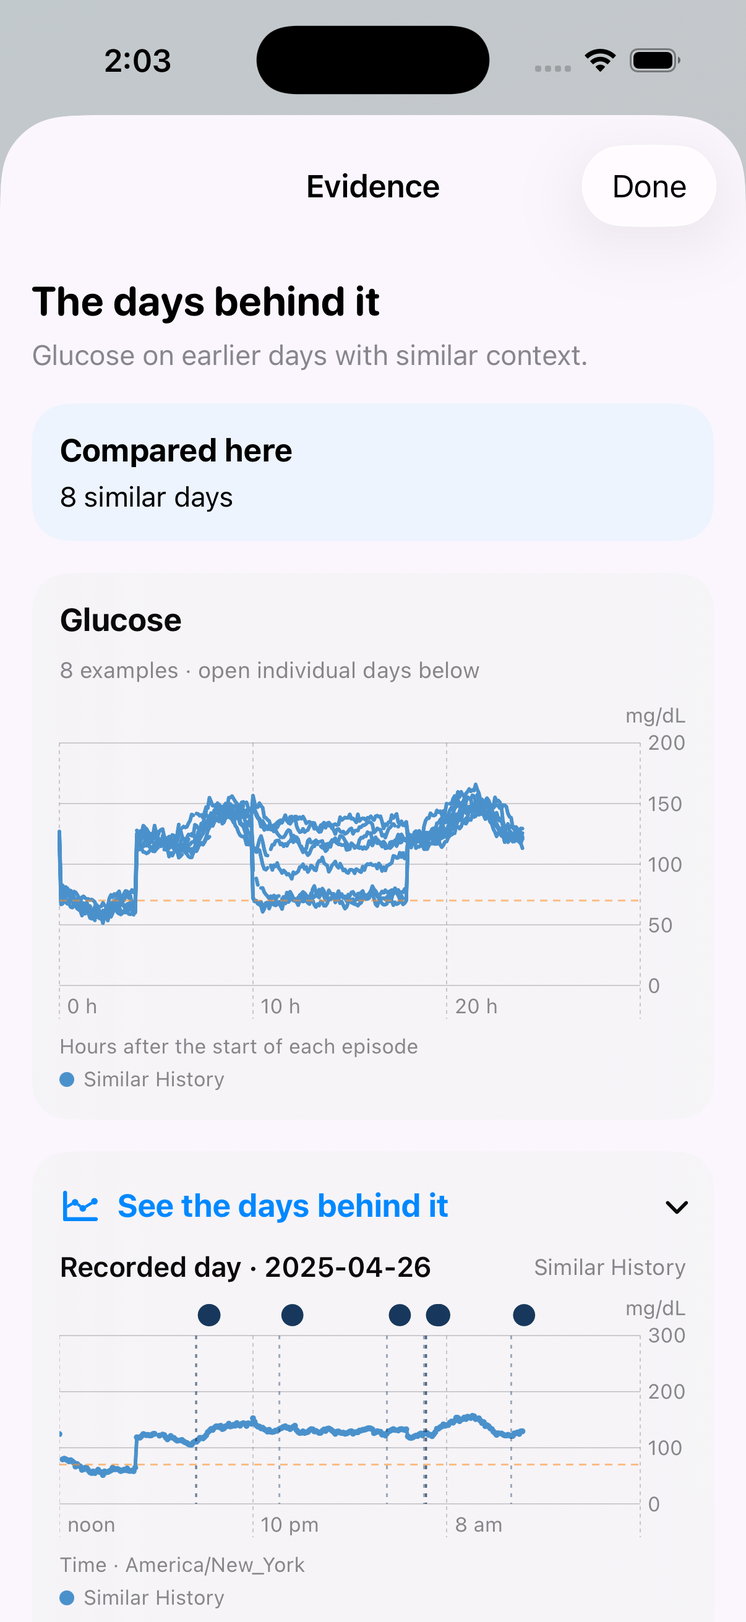
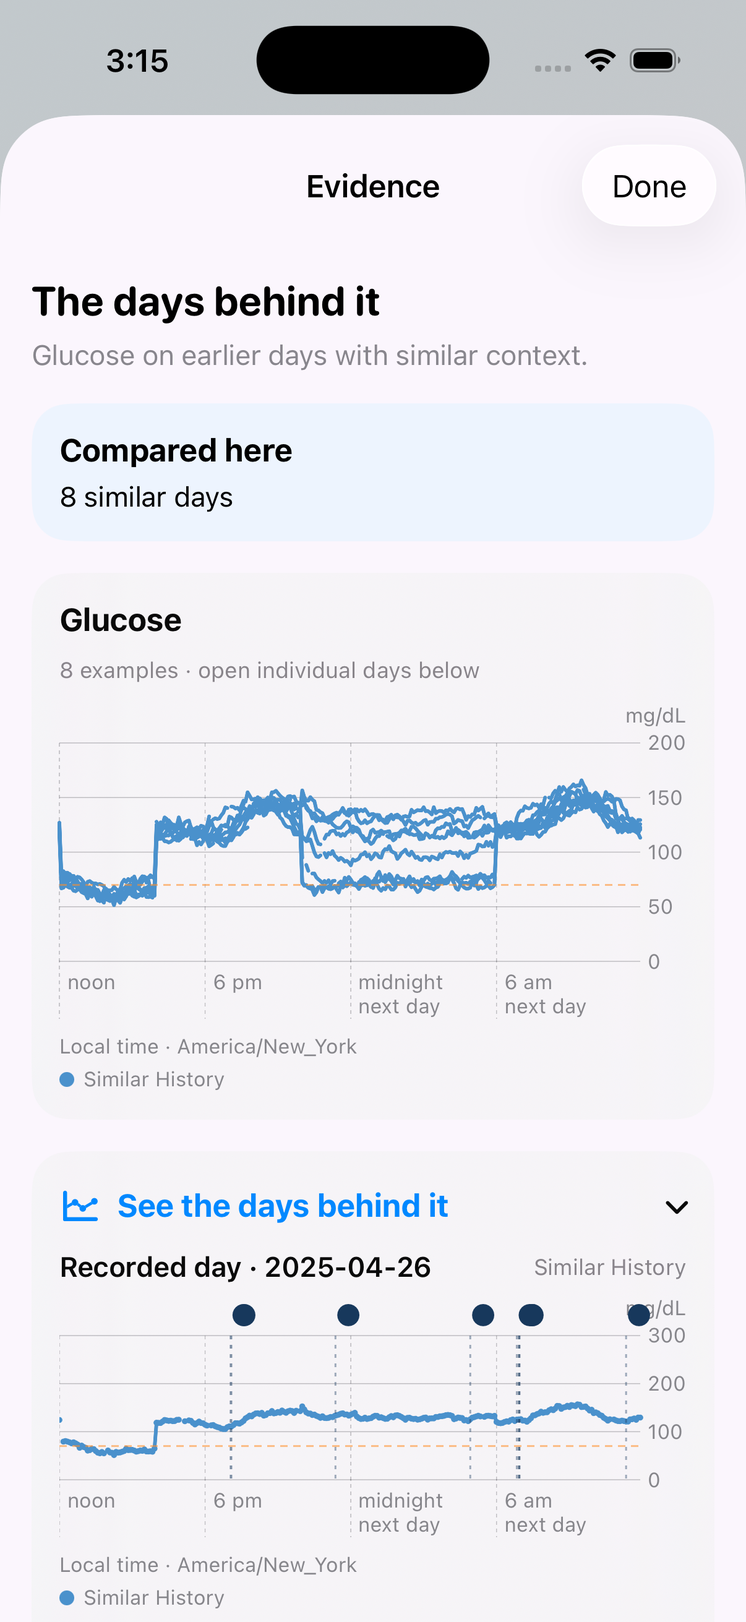
Improve twin presentation and show evidence in local clock time

diff --git a/demo/index.html b/demo/index.html
@@ -5,11 +5,14 @@
 <title>InSite — Digital twin</title>
 <style>
 :root{--ink:#193c51;--muted:#5c7280;--line:#dce6eb;--blue:#276789;--teal:#22786d;--pink:#b47c8d}*{box-sizing:border-box}body{margin:0;background:#f6f9fb;color:var(--ink);font:15px/1.5 -apple-system,BlinkMacSystemFont,"Segoe UI",sans-serif}button,input,select{font:inherit}button,select{cursor:pointer}a{color:var(--blue)}main{max-width:1320px;margin:auto;padding:24px 36px 60px}nav{display:flex;align-items:center;gap:26px;border-bottom:1px solid var(--line);padding-bottom:20px}nav strong{font-size:20px;letter-spacing:.08em;margin-right:auto}nav a{text-decoration:none;font-size:14px}header{padding:32px 0 24px}h1{font-size:34px;letter-spacing:-.025em;line-height:1.15;margin:0 0 12px}h2{font-size:19px;margin:0 0 12px}h3{font-size:15px;margin:0 0 12px}p{color:var(--muted);margin:8px 0}header p{max-width:780px;font-size:16px}.tag{display:inline-block;font-size:12px;color:var(--teal);background:#e7f2ee;border:1px solid #d4e5df;padding:4px 10px;border-radius:20px}.layout{display:grid;grid-template-columns:310px minmax(0,1fr);gap:22px;align-items:start}.panel{background:white;border:1px solid var(--line);border-radius:16px;padding:23px}.control-tabs{display:flex;gap:4px;background:#edf2f5;border-radius:9px;padding:4px;margin:20px 0}.control-tabs button{flex:1;border:0;border-radius:6px;padding:8px 4px;color:var(--muted);background:none;font-size:13px}.control-tabs button[aria-selected=true]{background:white;color:var(--ink);box-shadow:0 1px 4px #183a5010}.control-group[hidden]{display:none}label{display:block;font-size:13px;font-weight:600;margin:18px 0 8px}select{width:100%;padding:10px;border:1px solid #cfdce3;background:#fff;border-radius:8px;color:var(--ink)}input[type=range]{width:100%;accent-color:var(--blue);margin:5px 0}output{float:right;color:var(--blue);font-weight:600}small{font-size:12px;color:var(--muted);display:block;margin-top:5px}.patient-info{font-size:12px;line-height:1.6;margin-top:10px}.buttons{display:flex;gap:8px;margin-top:22px}.buttons button{border:1px solid var(--line);border-radius:9px;padding:11px 12px;background:white;color:var(--ink)}.buttons .primary{flex:1;background:var(--blue);border-color:var(--blue);color:#fff;font-weight:600}button:disabled{opacity:.55;cursor:wait}.chart-header{display:flex;align-items:flex-start;justify-content:space-between;gap:12px}.legend{display:flex;gap:18px;font-size:12px;margin:15px 0 8px}.legend span::before{content:"";display:inline-block;width:18px;height:3px;margin:0 7px 3px 0;background:var(--blue)}.legend .reference::before{background:var(--pink)}.legend .observed::before{background:#667782}.legend .uncalibrated::before{background:#b8a98b}svg{display:block;width:100%;height:auto}.metrics{display:grid;grid-template-columns:repeat(4,1fr);gap:12px;margin:18px 0}.metric{border-top:1px solid var(--line);padding-top:14px}.metric b{font-size:24px;display:block;letter-spacing:-.02em}.metric span{display:block;font-size:12px;color:var(--muted)}.status{color:var(--muted);font-size:13px;min-height:22px;margin-top:14px}.status[data-error=true]{color:#a33939}.subtle{background:#f5f8fa;border-radius:10px;padding:14px;font-size:13px}.subtle strong{display:block;margin-bottom:4px}details{border-top:1px solid var(--line);margin-top:20px;padding-top:15px}summary{font-size:13px;font-weight:600;cursor:pointer}table{width:100%;border-collapse:collapse;font-size:12px;margin-top:12px}td,th{padding:9px 8px;border-bottom:1px solid #e9eef1;text-align:left;vertical-align:top}th{font-weight:600;color:var(--muted)}.section{margin-top:28px}.section>p{max-width:800px}.calibration{margin-top:16px}.method-grid{display:grid;grid-template-columns:repeat(3,1fr);gap:18px;margin-top:16px}.method-grid article{border-top:2px solid #a6c8d9;padding:15px 0}.method-grid p{font-size:13px}code{font-size:12px;overflow-wrap:anywhere}.footnote{font-size:12px;margin-top:20px;max-width:900px}#calibrationMetrics{max-width:550px;grid-template-columns:repeat(2,1fr)}@media(max-width:1000px){main{padding:22px}.layout{grid-template-columns:280px minmax(0,1fr)}.panel{padding:18px}.metrics{grid-template-columns:repeat(2,1fr)}}@media(max-width:740px){main{padding:20px 16px}.layout,.method-grid{grid-template-columns:1fr}h1{font-size:28px}header{padding-top:24px}.control-tabs{max-width:420px}nav{gap:18px}}
+
+.example-scenarios{display:flex;gap:9px;flex-wrap:wrap;margin:20px 0 25px}.example-scenarios button{border:1px solid #c6dce6;border-radius:30px;padding:10px 16px;color:var(--blue);background:white;font-size:13px}.example-scenarios button:hover{background:#e9f2f7}.section-heading{display:flex;justify-content:space-between;align-items:start;gap:20px}.eyebrow{font-size:11px;letter-spacing:.12em;text-transform:uppercase;font-weight:700;color:var(--teal);margin-bottom:9px}.result-summary{margin:16px 0;background:#edf5f8;border-left:3px solid #70a5bf;border-radius:0 10px 10px 0;padding:15px 18px;font-size:16px;line-height:1.6}.study-grid{display:grid;grid-template-columns:1fr 1fr;gap:24px;margin:24px 0}.study-grid article{padding:22px;border:1px solid var(--line);border-radius:14px;background:#fbfcfd}.study-grid h3{font-size:18px}.study-stat{font-size:35px;letter-spacing:-.03em;font-weight:650;color:var(--blue);line-height:1.3}.study-stat small{font-size:12px;font-weight:400;letter-spacing:0}.study-grid p{font-size:13px}.study-method{display:grid;grid-template-columns:repeat(4,1fr);gap:12px;margin:20px 0}.study-method div{border-top:2px solid #bad4df;padding-top:12px;font-size:13px}.study-method b{display:block;margin-bottom:6px}.split-timeline{display:grid;grid-template-columns:repeat(6,1fr);gap:5px;margin:22px 0}.split-timeline div{padding:13px 8px;background:#e7f0f4;border-radius:7px;text-align:center;font-size:12px}.split-timeline .holdout{background:#e9e2ec;color:#704962}.split-timeline .initial{background:#edf0f2;color:var(--muted)}.benchmark-image{width:100%;height:auto;border:1px solid var(--line);border-radius:12px;margin:18px 0}.method-note{font-size:13px;max-width:950px}.benchmark-table{font-size:13px}.benchmark-table td{padding:12px 10px}.benchmark-table tr:last-child td{border-bottom:0}#validation{scroll-margin-top:20px;padding:30px}#calibration{padding:30px}@media(max-width:740px){.study-grid{grid-template-columns:1fr}.study-method{grid-template-columns:1fr 1fr}.split-timeline{grid-template-columns:repeat(3,1fr)}#validation,#calibration{padding:20px}.section-heading{display:block}}
 </style>
 </head>
 <body><main>
-<nav aria-label="Page sections"><strong>INSITE</strong><a href="#explore">Simulation</a><a href="#calibration">Calibration</a><a href="#model">Model</a></nav>
+<nav aria-label="Page sections"><strong>INSITE</strong><a href="#explore">Simulation</a><a href="#validation">Validation</a><a href="#calibration">Fitting</a><a href="#model">Model</a></nav>
 <header id="explore"><h1>Explore the digital twin</h1><p>Change sleep, activity, cycle context, or physiology and compare the simulated glucose response. This demo runs the same physiological and context model used by the twin fitter.</p><span class="tag">Synthetic research demo</span></header>
+<div class="example-scenarios" aria-label="Example scenarios"><button type="button" data-preset="sleep">Try a shorter night</button><button type="button" data-preset="activity">Try evening activity</button><button type="button" data-preset="site">Change site age</button></div>
 <div class="layout">
 <form id="controls" class="panel"><h2>Simulation inputs</h2>
 <label for="subject">Base physiology</label><select id="subject"><option value="adult#001">Virtual adult 001 · 102.3 kg</option><option value="adult#006">Virtual adult 006 · 66.1 kg</option></select><p id="patientInfo" class="patient-info">Each profile has its own glucose production, insulin response, and absorption parameters.</p>
@@ -37,13 +40,18 @@
 <div class="buttons"><button id="run" class="primary" type="submit">Run comparison</button><button type="button" id="reset">Reset</button></div><small>Reference: 8.5 hours of sleep, no exercise, unspecified cycle, day-one site, and neutral stress.</small>
 </form>
 <div>
-<section class="panel"><div class="chart-header"><div><h2>Glucose over 24 hours</h2><p class="patient-info">Daily inputs repeat during a preceding day of simulation.</p></div><span class="tag">mg/dL</span></div><div class="legend"><span class="reference">Reference</span><span>Your scenario</span></div><svg id="chart" viewBox="0 0 760 360" role="img" aria-label="Reference and scenario glucose curves over 24 hours"></svg><div id="metrics" class="metrics"></div><div id="status" class="status" role="status" aria-live="polite">Preparing simulation…</div>
+<section class="panel"><div class="chart-header"><div><h2>Glucose over 24 hours</h2><p class="patient-info">Daily inputs repeat during a preceding day of simulation.</p></div><span class="tag">mg/dL</span></div><div class="legend"><span class="reference">Reference</span><span>Your scenario</span></div><svg id="chart" viewBox="0 0 760 360" role="img" aria-label="Reference and scenario glucose curves over 24 hours"></svg><div id="scenarioSummary" class="result-summary" aria-live="polite">Choose a scenario to compare its glucose response.</div><div id="metrics" class="metrics"></div><div id="status" class="status" role="status" aria-live="polite">Preparing simulation…</div>
 <div class="subtle"><strong>What changed</strong><div id="changes">All inputs match the reference.</div></div>
 <details><summary>Inputs and model parameters</summary><div id="parameters"></div></details>
 </section>
 <section id="model" class="section"><h2>How context enters the model</h2><div class="method-grid"><article><h3>Sleep and cycle</h3><p>Context-dependent sensitivity modifies insulin action. Sleep also affects glucose production. Cycle effects use the model’s recorded-day phase mapping.</p></article><article><h3>Exercise and site age</h3><p>Exercise changes glucose uptake during activity and sensitivity afterward. Site age has its own fitted sensitivity coefficient.</p></article><article><h3>Personal physiology</h3><p>Fitting adjusts insulin sensitivity, glucose production, and absorption parameters. The library also estimates day-to-day variation and residual responses.</p></article></div><p class="footnote">Interactive comparisons use the model’s prior context coefficients. Basal and bolus delivery are fixed by each scenario. The calibration example below shows a separate fit to synthetic observations. The documentation records each mechanism, parameter, and evaluation limit.</p></section>
 </div></div>
-<section class="section panel" id="calibration"><h2>Fitting a twin to synthetic observations</h2><p>The calibration example reserves the final day for evaluation. Compare its observed glucose with the fitted model and the starting parameter set.</p><div id="calibrationStatus" class="status" role="status">Loading the calibration result…</div><div id="calibrationContent" hidden><div class="legend"><span class="observed">Synthetic observations</span><span>Fitted twin</span><span class="uncalibrated">Starting parameters</span></div><svg id="calibrationChart" viewBox="0 0 1000 300" role="img" aria-label="Held-out synthetic observations with fitted and uncalibrated glucose curves"></svg><div class="metrics" id="calibrationMetrics"></div><p id="calibrationNote" class="footnote"></p></div></section>
+<section class="section panel" id="validation">
+<div class="section-heading"><div><div class="eyebrow">Research evaluation</div><h2>How the twin was evaluated</h2><p>Personalized twins were compared on the same held-out five-hour windows, using recorded meals and insulin during replay.</p></div><span class="tag">Saved benchmark results</span></div>
+<div class="study-method"><div><b>1 · Fit earlier history</b>Estimate physiology and context effects from training days.</div><div><b>2 · Reserve later days</b>Select evaluation windows with T1DSim_AI’s sequence selector.</div><div><b>3 · Replay the windows</b>Give each model the recorded inputs and score later glucose.</div><div><b>4 · Compare outcomes</b>Measure glucose error and low-event probabilities; resample people for intervals.</div></div>
+<div id="benchmarkContent" hidden><div class="study-grid"><article><h3>HUPA-UCM</h3><div class="study-stat" id="hupaAuroc"></div><p id="hupaSummary"></p></article><article><h3>T1D-UOM</h3><div class="study-stat" id="uomRmse"></div><p id="uomSummary"></p></article></div><table class="benchmark-table"><thead><tr><th>HUPA-UCM model</th><th>Replay RMSE ↓</th><th>Low-event AUROC ↑</th><th>Brier score ↓</th></tr></thead><tbody id="benchmarkRows"></tbody></table><img class="benchmark-image" src="/benchmark-figure.png" alt="Held-out replay errors and low-event discrimination for InSite, T1DSim_AI, and ReplayBG"><p class="method-note">The InSite twin uses a six-hour warm-up history; the baselines use their own initialization procedures. Noise-matched baseline probabilities use the twin’s fitted CGM-noise model. Paired glucose-error intervals include zero for the personalized comparisons. These are exploratory, recorded-input replay results.</p><details><summary>Uncertainty and evaluation scope</summary><p class="method-note" id="benchmarkIntervals"></p><p class="method-note">Recorded future meals, insulin, and available context are supplied during replay. Learning-rate selection was exploratory. Saved reports identify fit versions but have limited model and input hashes. Changed-dose outcomes and prospective control need separate evaluation.</p></details></div><p id="benchmarkStatus" role="status" class="status">Loading the saved aggregate results…</p>
+</section>
+<section class="section panel" id="calibration"><div class="eyebrow">Reproducible example</div><h2>From observations to a fitted twin</h2><p>The calibration example reserves the final day for evaluation. Compare its observed glucose with the fitted model and the starting parameter set.</p><div class="split-timeline" aria-label="Calibration split"><div class="initial">Day 1<br>Initialize</div><div>Day 2<br>Fit</div><div>Day 3<br>Fit</div><div>Day 4<br>Fit</div><div>Day 5<br>Fit</div><div class="holdout">Day 6<br>Evaluate</div></div><div id="calibrationStatus" class="status" role="status">Loading the calibration result…</div><div id="calibrationContent" hidden><div class="legend"><span class="observed">Synthetic observations</span><span>Fitted twin</span><span class="uncalibrated">Starting parameters</span></div><svg id="calibrationChart" viewBox="0 0 1000 300" role="img" aria-label="Held-out synthetic observations with fitted and uncalibrated glucose curves"></svg><div class="metrics" id="calibrationMetrics"></div><p id="calibrationNote" class="footnote"></p></div></section>
 </main>
 <script>
 const $=id=>document.getElementById(id);let busy=false;
@@ -56,9 +64,10 @@ function request(){const r={subject:$('subject').value};for(const k of Object.ke
 function labels(){const r=request();for(const k of Object.keys(defaults)){const out=$(k+'Value');if(out)out.textContent=format(k,r[k]);}}
 Object.keys(defaults).forEach(k=>$(k).addEventListener('input',labels));
 document.querySelectorAll('[data-group]').forEach(button=>button.addEventListener('click',()=>{document.querySelectorAll('[data-group]').forEach(b=>b.setAttribute('aria-selected',String(b===button)));document.querySelectorAll('.control-group').forEach(g=>g.hidden=g.id!==button.dataset.group);}));
-function chart(id,minutes,series,width=760,height=360){const vals=series.flatMap(s=>s.values).filter(Number.isFinite);if(!vals.length)return;const left=52,right=width-18,top=25,bottom=height-42,lo=Math.min(40,Math.floor(Math.min(...vals)/40)*40),hi=Math.max(220,Math.ceil(Math.max(...vals)/40)*40),x=m=>left+(m/1440)*(right-left),y=g=>bottom-(g-lo)/(hi-lo)*(bottom-top);let parts=[`<rect x="${left}" y="${y(180)}" width="${right-left}" height="${y(70)-y(180)}" fill="#edf5ef"/>`];for(let g=Math.ceil(lo/50)*50;g<=hi;g+=50)parts.push(`<line x1="${left}" y1="${y(g)}" x2="${right}" y2="${y(g)}" stroke="#e1e8ed"/><text x="${left-9}" y="${y(g)+4}" text-anchor="end" fill="#657987" font-size="12">${g}</text>`);for(let h=0;h<=24;h+=4)parts.push(`<text x="${x(h*60)}" y="${bottom+24}" text-anchor="middle" fill="#657987" font-size="12">${time(h)}</text>`);for(const s of series){let segment=[];const flush=()=>{if(segment.length)parts.push(`<polyline points="${segment.join(' ')}" fill="none" stroke="${s.color}" stroke-width="${s.width||2.5}" ${s.dash?'stroke-dasharray="5 4"':''}/>`);segment=[];};s.values.forEach((g,i)=>{if(Number.isFinite(g))segment.push(`${x(minutes[i])},${y(g)}`);else flush();});flush();}$(id).innerHTML=parts.join('');}
+function chart(id,minutes,series,width=760,height=360,events=[]){const vals=series.flatMap(s=>s.values).filter(Number.isFinite);if(!vals.length)return;const left=52,right=width-18,top=25,bottom=height-42,lo=Math.min(40,Math.floor(Math.min(...vals)/40)*40),hi=Math.max(220,Math.ceil(Math.max(...vals)/40)*40),x=m=>left+(m/1440)*(right-left),y=g=>bottom-(g-lo)/(hi-lo)*(bottom-top);let parts=[`<rect x="${left}" y="${y(180)}" width="${right-left}" height="${y(70)-y(180)}" fill="#edf5ef"/>`];for(let g=Math.ceil(lo/50)*50;g<=hi;g+=50)parts.push(`<line x1="${left}" y1="${y(g)}" x2="${right}" y2="${y(g)}" stroke="#e1e8ed"/><text x="${left-9}" y="${y(g)+4}" text-anchor="end" fill="#657987" font-size="12">${g}</text>`);for(let h=0;h<=24;h+=4)parts.push(`<text x="${x(h*60)}" y="${bottom+24}" text-anchor="middle" fill="#657987" font-size="12">${time(h)}</text>`);for(const event of events){const position=x(event.minute);if(event.end!==undefined)parts.push(`<rect x="${position}" y="${top}" width="${x(event.end)-position}" height="${bottom-top}" fill="#22786d" opacity=".08"/>`);parts.push(`<line x1="${position}" y1="${top}" x2="${position}" y2="${bottom}" stroke="#7b939f" stroke-dasharray="3 4"/><text x="${position+5}" y="${top+12+(event.row||0)*15}" fill="#456779" font-size="11">${event.label}</text>`);}for(const s of series){let segment=[];const flush=()=>{if(segment.length)parts.push(`<polyline points="${segment.join(' ')}" fill="none" stroke="${s.color}" stroke-width="${s.width||2.5}" ${s.dash?'stroke-dasharray="5 4"':''}/>`);segment=[];};s.values.forEach((g,i)=>{if(Number.isFinite(g))segment.push(`${x(minutes[i])},${y(g)}`);else flush();});flush();}$(id).innerHTML=parts.join('');}
 function metric(label,value,reference){const el=document.createElement('div');el.className='metric';for(const [tag,txt]of[['span',label],['b',String(value)],['span',reference]]){const e=document.createElement(tag);e.textContent=txt;el.append(e);}return el;}
-function draw(data,r){chart('chart',data.minute,[{values:data.baseline,color:'#b47c8d'},{values:data.scenario,color:'#276789'}]);const s=data.summary[1],b=data.summary[0];$('metrics').replaceChildren(...[['Time 70–180',s.timeInRangePercent+'%',b.timeInRangePercent+'%'],['Time below 70',s.below70Minutes+' min',b.below70Minutes+' min'],['Time above 180',s.above180Minutes+' min',b.above180Minutes+' min'],['Mean glucose',s.meanMgDl,b.meanMgDl]].map(([k,v,ref])=>metric(k,v,'Reference: '+ref)));
+function draw(data,r){const events=[{minute:720,label:'Lunch · noon'},{minute:720+r.offset,label:'Lunch bolus',row:1}];if(r.exerciseMinutes>0)events.push({minute:r.exerciseHour*60,end:r.exerciseHour*60+r.exerciseMinutes,label:'Activity · '+time(r.exerciseHour)});chart('chart',data.minute,[{values:data.baseline,color:'#b47c8d'},{values:data.scenario,color:'#276789'}],760,360,events);const s=data.summary[1],b=data.summary[0];const delta=(v,ref,unit)=>{const d=Number((v-ref).toFixed(1));return d===0?'Same as reference':`${d>0?'+':''}${d} ${unit} vs reference`;};$('metrics').replaceChildren(...[['Time 70–180',s.timeInRangePercent,b.timeInRangePercent,'%', 'percentage points'],['Time below 70',s.below70Minutes,b.below70Minutes,' min','min'],['Time above 180',s.above180Minutes,b.above180Minutes,' min','min'],['Mean glucose',s.meanMgDl,b.meanMgDl,' mg/dL','mg/dL']].map(([k,v,ref,unit,diffUnit])=>metric(k,v+unit,delta(v,ref,diffUnit)+' · Reference: '+ref+unit)));
+const deltas=[['below 70',s.below70Minutes-b.below70Minutes],['above 180',s.above180Minutes-b.above180Minutes]].filter(([,v])=>v!==0);$('scenarioSummary').textContent=deltas.length?'In this simulation, your scenario spent '+deltas.map(([label,v])=>`${Math.abs(v)} ${Math.abs(v)===1?'minute':'minutes'} ${v>0?'more':'less'} ${label} mg/dL`).join(' and ')+'.':Object.keys(defaults).some(k=>r[k]!==defaults[k])?'Both simulations spent the same total time below 70 and above 180 mg/dL.':'Start with the reference day, then change context, lunch, or physiology to compare the response.';
 const p=data.patient;$('patientInfo').textContent=`${p.weightKg} kg · baseline basal ${p.basalUnitsPerHour.toFixed(2)} U/hr. ${r.subject==='adult#001'?'Lower':'Higher'} gut carbohydrate absorption rate than adult ${r.subject==='adult#001'?'006':'001'}.`;
 const changes=Object.keys(defaults).filter(k=>r[k]!==defaults[k]);$('changes').textContent=changes.length?changes.map(k=>`${names[k]}: ${format(k,r[k])}`).join(' · '):'All inputs match the reference.';
 const table=document.createElement('table');const head=table.insertRow();['Input','Reference','Scenario'].forEach(v=>{const c=document.createElement('th');c.textContent=v;head.append(c);});Object.keys(defaults).forEach(k=>{const row=table.insertRow();[names[k],format(k,defaults[k]),format(k,r[k])].forEach(v=>row.insertCell().textContent=v);});$('parameters').replaceChildren(table);
@@ -66,7 +75,7 @@ if(data.metadata?.context){const heading=document.createElement('h3');heading.st
 
 if(data.metadata?.parameters){const title=document.createElement('h3');title.textContent='Physiology and context coefficients';title.style.marginTop='20px';const wrap=document.createElement('div');wrap.style.cssText='max-height:360px;overflow:auto';const params=document.createElement('table');const header=params.insertRow();['Parameter','Reference','Scenario','Unit'].forEach(t=>{const th=document.createElement('th');th.textContent=t;header.append(th);});const number=v=>typeof v==='number'?Number(v.toPrecision(4)):v;data.metadata.parameters.forEach(p=>{const row=params.insertRow();[p.description||p.name,number(p.reference),number(p.scenario),p.unit].forEach(v=>row.insertCell().textContent=v??'');});wrap.append(params);$('parameters').append(title,wrap);}
 }
-async function run(event){event?.preventDefault();if(busy)return;busy=true;const r=request();$('controls').querySelectorAll('input,select').forEach(e=>e.disabled=true);$('run').disabled=true;$('reset').disabled=true;$('status').dataset.error='false';$('status').textContent='Running the reference and your scenario…';try{const response=await fetch('/simulate',{method:'POST',headers:{'Content-Type':'application/json'},body:JSON.stringify(r)});if(!response.ok)throw Error();const data=await response.json();draw(data,r);$('status').textContent='Comparison complete. Both curves use the selected base physiology.';}catch{$('status').dataset.error='true';$('status').textContent='Couldn’t run this comparison. Please try again.';}finally{busy=false;$('controls').querySelectorAll('input,select').forEach(e=>e.disabled=false);$('run').disabled=false;$('reset').disabled=false;}}
+async function run(event){event?.preventDefault();if(busy)return;busy=true;const r=request();$('controls').querySelectorAll('input,select').forEach(e=>e.disabled=true);document.querySelectorAll('[data-preset]').forEach(e=>e.disabled=true);$('run').disabled=true;$('reset').disabled=true;$('status').dataset.error='false';$('status').textContent='Running the reference and your scenario…';try{const response=await fetch('/simulate',{method:'POST',headers:{'Content-Type':'application/json'},body:JSON.stringify(r)});if(!response.ok)throw Error();const data=await response.json();draw(data,r);$('status').textContent='Comparison complete. Both curves use the selected base physiology.';}catch{$('status').dataset.error='true';$('status').textContent='Couldn’t run this comparison. Please try again.';}finally{busy=false;$('controls').querySelectorAll('input,select').forEach(e=>e.disabled=false);document.querySelectorAll('[data-preset]').forEach(e=>e.disabled=false);$('run').disabled=false;$('reset').disabled=false;}}
 $('reset').addEventListener('click',()=>{for(const[k,v]of Object.entries(defaults))$(k).value=v===null?'':v;labels();run();});$('controls').addEventListener('submit',run);labels();run();
 async function calibration(){try{const response=await fetch('/calibration');if(!response.ok)throw Error();const data=await response.json();windowCalibration(data);}catch{$('calibrationStatus').textContent='The reproducible calibration run is being prepared.';}}
 function windowCalibration(data){
@@ -80,4 +89,7 @@ $('calibrationNote').textContent=`This run used ${c.map_iters} MAP and ${c.svi_i
 $('calibrationContent').hidden=false;
 }
 calibration();
+document.querySelectorAll('[data-preset]').forEach(button=>button.addEventListener('click',()=>{for(const[k,v]of Object.entries(defaults))$(k).value=v===null?'':v;const preset=button.dataset.preset;if(preset==='sleep')$('sleepHours').value=6;if(preset==='activity'){$('exerciseMinutes').value=30;$('exerciseHour').value=18;}if(preset==='site')$('siteAgeDays').value=5;$('tab-daily').click();labels();run();}));
+async function benchmark(){try{const response=await fetch('/benchmark');if(!response.ok)throw Error();const data=await response.json();if(data.schemaVersion!==1)throw Error();const h=data.results['HUPA-UCM'],u=data.results['T1D-UOM'];const m=h.hypoglycemia.metrics;const a=m.t1dTwinV2WarmProbability;const b=m.t1dsimAiTunedPlusNoiseProbability;const c=m.replayBgColdPlusNoiseProbability;const stat=(id,value,caption)=>{const el=$(id);el.textContent=value;const sub=document.createElement('small');sub.textContent=caption;el.append(sub);};stat('hupaAuroc',a.auroc.toFixed(3),'Low-event AUROC · InSite twin v2');stat('uomRmse',u.forecastRmseMgDl.t1dTwinV2Warm.toFixed(2)+' mg/dL','Mean five-hour sequence RMSE · InSite twin v2');$('hupaSummary').textContent=`17 people · 217 windows · ${h.hypoglycemia.observedLowEvents} low events. Higher low-event discrimination than the noise-matched personalized baselines in this saved evaluation.`;$('uomSummary').textContent=`4 people · 56 windows. Tuned T1DSim_AI: ${u.forecastRmseMgDl.t1dsimAiPersonalLearningRate1eMinus3.toFixed(2)} mg/dL. The paired difference is uncertain, and only ${u.hypoglycemia.observedLowEvents} low events occurred.`;const rows=[['InSite twin v2 · warm start',h.forecastRmseMgDl.t1dTwinV2Warm,a],['T1DSim_AI · tuned + CGM noise',h.forecastRmseMgDl.t1dsimAiPersonalLearningRate1eMinus3,b],['ReplayBG · cold start + CGM noise',h.forecastRmseMgDl.replayBgCold,c]];$('benchmarkRows').replaceChildren();rows.forEach(([name,rmse,values])=>{const tr=document.createElement('tr');[name,rmse.toFixed(2)+' mg/dL',values.auroc.toFixed(3),values.brier.toFixed(3)].forEach(v=>{const td=document.createElement('td');td.textContent=v;tr.append(td);});$('benchmarkRows').append(tr);});const d=h.hypoglycemia.pairedDifferencesTwinMinusT1DSimAiTunedPlusNoise;$('benchmarkIntervals').textContent=`HUPA AUROC difference versus tuned T1DSim_AI with matched noise: +${d.auroc.toFixed(3)}, 95% participant-cluster interval ${d.participantClusterBootstrap95Ci.map(x=>x.toFixed(3)).join(' to ')}. Low events require three consecutive five-minute readings below 70 mg/dL. RMSE excludes the anchored starting glucose. The separate UOM comparison has wide intervals and few low events.`;$('benchmarkContent').hidden=false;$('benchmarkStatus').textContent='Cohort-level aggregates checked against saved reports. Full methods and provenance are included in the repository.';}catch{$('benchmarkStatus').textContent='Couldn’t load the saved benchmark. Reload to try again.';}}
+benchmark();
 </script></body></html>

diff --git a/demo/server.py b/demo/server.py
@@ -32,6 +32,14 @@ class Handler(BaseHTTPRequestHandler):
         self.wfile.write(raw)
 
     def do_GET(self):
+        public_assets = {
+            "/benchmark": (ROOT / "examples/twin-benchmark-summary.json", "application/json; charset=utf-8"),
+            "/benchmark-figure.png": (ROOT / "assets/twin-benchmark.png", "image/png"),
+        }
+        if self.path in public_assets:
+            path, content_type = public_assets[self.path]
+            self.send(200, path.read_bytes(), content_type)
+            return
         if self.path in ("/", "/index.html"):
             self.send(200, (Path(__file__).parent / "index.html").read_bytes(), "text/html; charset=utf-8")
             return

diff --git a/docs/digital-twin.md b/docs/digital-twin.md
@@ -8,6 +8,27 @@ Fitting first finds a maximum-a-posteriori starting point, then estimates a post
 
 The code treats missing delivery differently from an observed zero. Days without enough insulin-delivery information can be skipped instead of filled from a scheduled basal value. The timeline also handles irregular day lengths and multiple input cadences ([data handling](../twin/t1d_twin/data.py), [tests](../twin/tests/test_twin.py)).
 
+## From records to a personal model
+
+```mermaid
+flowchart LR
+    A[CGM and recorded inputs] --> B[Time-aligned days]
+    B --> C[Earlier fitting days]
+    B --> D[Later evaluation days]
+    C --> E[MAP initialization]
+    E --> F[Variational parameter posterior]
+    F --> G[Replay with recorded inputs]
+    D --> G
+    G --> H[Compare with held-out glucose]
+```
+
+| Part | What it represents | Where to inspect it |
+| --- | --- | --- |
+| Core physiology | Glucose production, insulin sensitivity and action, insulin and meal absorption | [Parameters](../twin/t1d_twin/params.py) |
+| Context | Sleep, activity, cycle, site age, stress, and time-of-day effects | [Input-to-mechanism map](twin-capabilities.md) |
+| Fitting | Shared physiology, day/event variation, and uncertainty from earlier records | [Fitter](../twin/t1d_twin/fit.py) |
+| Evaluation | Glucose replay error and sustained low-event discrimination on reserved windows | [Benchmark protocol](twin-benchmark.md) |
+
 ## Interactive model and calibration
 
 The [interactive demo](../demo/README.md) uses the full context and physiology rollout over a preceding day and the displayed 24 hours. Its controls expose sleep, exercise, cycle day, site age, stress, lunch inputs, and selected core physiological multipliers. The [capability table](twin-capabilities.md) maps each recorded input to its model mechanism.

diff --git a/demo/README.md b/demo/README.md
@@ -17,6 +17,8 @@ Open **http://127.0.0.1:8874**. Stop the server with Ctrl-C.
 
 ## Controls
 
+Three example buttons set a shorter night, evening exercise, or a five-day-old site and run a comparison. All inputs remain editable. The graph marks lunch, bolus timing, and activity; metrics include the difference from the reference.
+
 | Group | Inputs | Model path |
 | --- | --- | --- |
 | Daily context | Sleep duration, exercise duration and start time, cycle day, site age, stress | Existing context features and sensitivity, glucose-production, and glucose-uptake multipliers |
@@ -26,6 +28,12 @@ Open **http://127.0.0.1:8874**. Stop the server with Ctrl-C.
 The two base profiles are published virtual adults supplied by simglucose. They differ in body mass, steady-state basal input, glucose production, insulin response, and absorption parameters. The scenario metadata exposes the model values used in each run.
 
 Interactive comparisons use prior context coefficients from the included library. The model's cycle mapping uses a fixed 28-day representation; its site-age and stress terms are effective model parameters. [The capability table](../docs/twin-capabilities.md) explains each input's meaning and limitations.
+
+## Validation
+
+The Validation section reads the checked-in cohort-level benchmark summary, shows the fitting/replay procedure, and displays the HUPA-UCM and T1D-UOM results. The comparison table, figure, and uncertainty details use the same saved aggregates as the [benchmark documentation](../docs/twin-benchmark.md).
+
+![Validation view](../assets/twin-validation.png)
 
 ## Calibration example
 

diff --git a/README.md b/README.md
@@ -58,7 +58,7 @@ The paired AUROC advantage was **+0.142 [0.058, 0.222]** over T1DSim_AI and **+0
 
 ![InSite digital-twin interface](assets/virtual-sandbox.png)
 
-Change daily context, lunch inputs, or physiological parameters and compare a continuous 24-hour glucose trajectory with a reference scenario. The interactive controls use the model's prior coefficients. A separate synthetic calibration example shows the fitting and held-out replay path.
+Try a shorter night, evening activity, or an older infusion site, then explore the individual inputs. The plot marks lunch, bolus timing, and exercise; outcome cards show each scenario’s difference from the reference over 24 hours. The interactive controls use the model's prior coefficients. A separate synthetic calibration example shows the fitting and held-out replay path.
 
 ```bash
 python -m venv .venv
@@ -67,7 +67,7 @@ pip install -r requirements.txt -r twin/requirements.txt
 python demo/server.py --port 8874
 ```
 
-Open **http://127.0.0.1:8874**. [Demo details](demo/README.md).
+Open **http://127.0.0.1:8874**. The **Validation** section walks through the benchmark and its saved results; **Fitting** shows the synthetic train/evaluation split and glucose curves. [Demo details](demo/README.md).
 
 ### Synthetic calibration
 

diff --git a/docs/app-and-privacy.md b/docs/app-and-privacy.md
@@ -17,7 +17,7 @@ For the current participant-review workflow, authorized records are read securel
 
 # Screenshot provenance
 
-The brief, evidence, and individual-day images in `assets/` were captured from the isolated simulator on September 26, 2026. The underlying artificial history was generated with seed 131 and spans 120 days. The visible sentence comes from an actual offline Qwen3-4B-Instruct-2507-4bit wording pass over validated engine facts. Clock formatting and links are checked against those facts.
+The brief, evidence, and individual-day images in `assets/` were captured from the isolated simulator on September 26, 2026. The underlying artificial history was generated with seed 131 and spans 120 days. The visible sentence comes from an actual offline Qwen3-4B-Instruct-2507-4bit wording pass over validated engine facts. Clock formatting and links are checked against those facts. Overview and individual-day traces use recorded local clock time, with next-day labels across midnight. Missing-reading and daylight-saving clock gaps split the traces.
 
 The native app source, signing configuration, service credentials, participant reports, and simulator app bundle are maintained outside this portfolio snapshot.
 

diff --git a/PUBLICATION_CONTENTS.md b/PUBLICATION_CONTENTS.md
@@ -10,7 +10,7 @@ This file defines the first public snapshot. Each included part should help a re
 | `src/insite_analytics/` | Inspect and run the selected pattern engine | Source snapshot with hashes |
 | `tests/` | Specific pattern contracts and package checks | Synthetic fixtures |
 | `twin/` | Fitting/model code, synthetic checks, recovery script | Existing Apache 2.0 license retained |
-| `demo/` | Full-context physiological simulation and synthetic calibration viewer | Prior-coefficient scenarios, actual synthetic fitting output, localhost server |
+| `demo/` | Full-context simulation, benchmark dashboard, and synthetic calibration viewer | Prior-coefficient scenarios, actual synthetic fitting output, localhost server |
 | `docs/` | Methods, evaluation design, data access, claims audit | Aggregate/source-backed documentation |
 | Requirements, source manifests, verification record | Reproduce the reviewed state | Portable paths and recorded commands |
 
